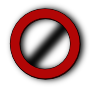
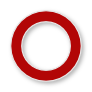
beautifull widget numeric options

diff --git a/trunk/src/gui/spin_button_picture.cpp b/trunk/src/gui/spin_button_picture.cpp
@@ -36,6 +36,7 @@ SpinButtonWithPicture::SpinButtonWithPicture (const std::string &label, const st
   Profile *res = resource_manager.LoadXMLProfile( "graphism.xml", false); 
   m_image = resource_manager.LoadImage(res, resource_id);
   m_full_circle = resource_manager.LoadImage(res, "menu/full_circle");
+  m_full_circle_border = resource_manager.LoadImage(res, "menu/full_circle_border");
   m_partial_circle_color = resource_manager.LoadColor(res, "menu/partial_circle_color");
   resource_manager.UnLoadXMLProfile( res); 
 
@@ -99,7 +100,12 @@ void SpinButtonWithPicture::Draw(const Point2i &/*mousePosition*/, Surface& /*su
 
   video_window.FilledPolygon (points, m_partial_circle_color);
 
-  // 3. finally let's put the image
+  // 3. then draw the full circle border
+  uint tmp_circle_border_x = GetPositionX() + (GetSizeX() - m_full_circle_border.GetWidth())/4 ;
+  uint tmp_circle_border_y = GetPositionY() + (GetSizeY() - m_full_circle_border.GetHeight() - txt_label->GetHeight() - 5) /2;
+  video_window.Blit(m_full_circle_border, Point2i(tmp_circle_border_x, tmp_circle_border_y));
+
+  // 4. finally let's put the image
   uint tmp_x = GetPositionX() + (GetSizeX() - m_image.GetWidth())/4 ;
   uint tmp_y = GetPositionY() + (GetSizeY() - m_image.GetHeight() - txt_label->GetHeight() - 5) /2;
 

diff --git a/trunk/src/gui/spin_button_picture.h b/trunk/src/gui/spin_button_picture.h
@@ -40,6 +40,7 @@ class SpinButtonWithPicture : public Widget
 
   Surface m_image;
   Surface m_full_circle;
+  Surface m_full_circle_border;
   Color m_partial_circle_color;
 
  protected:
